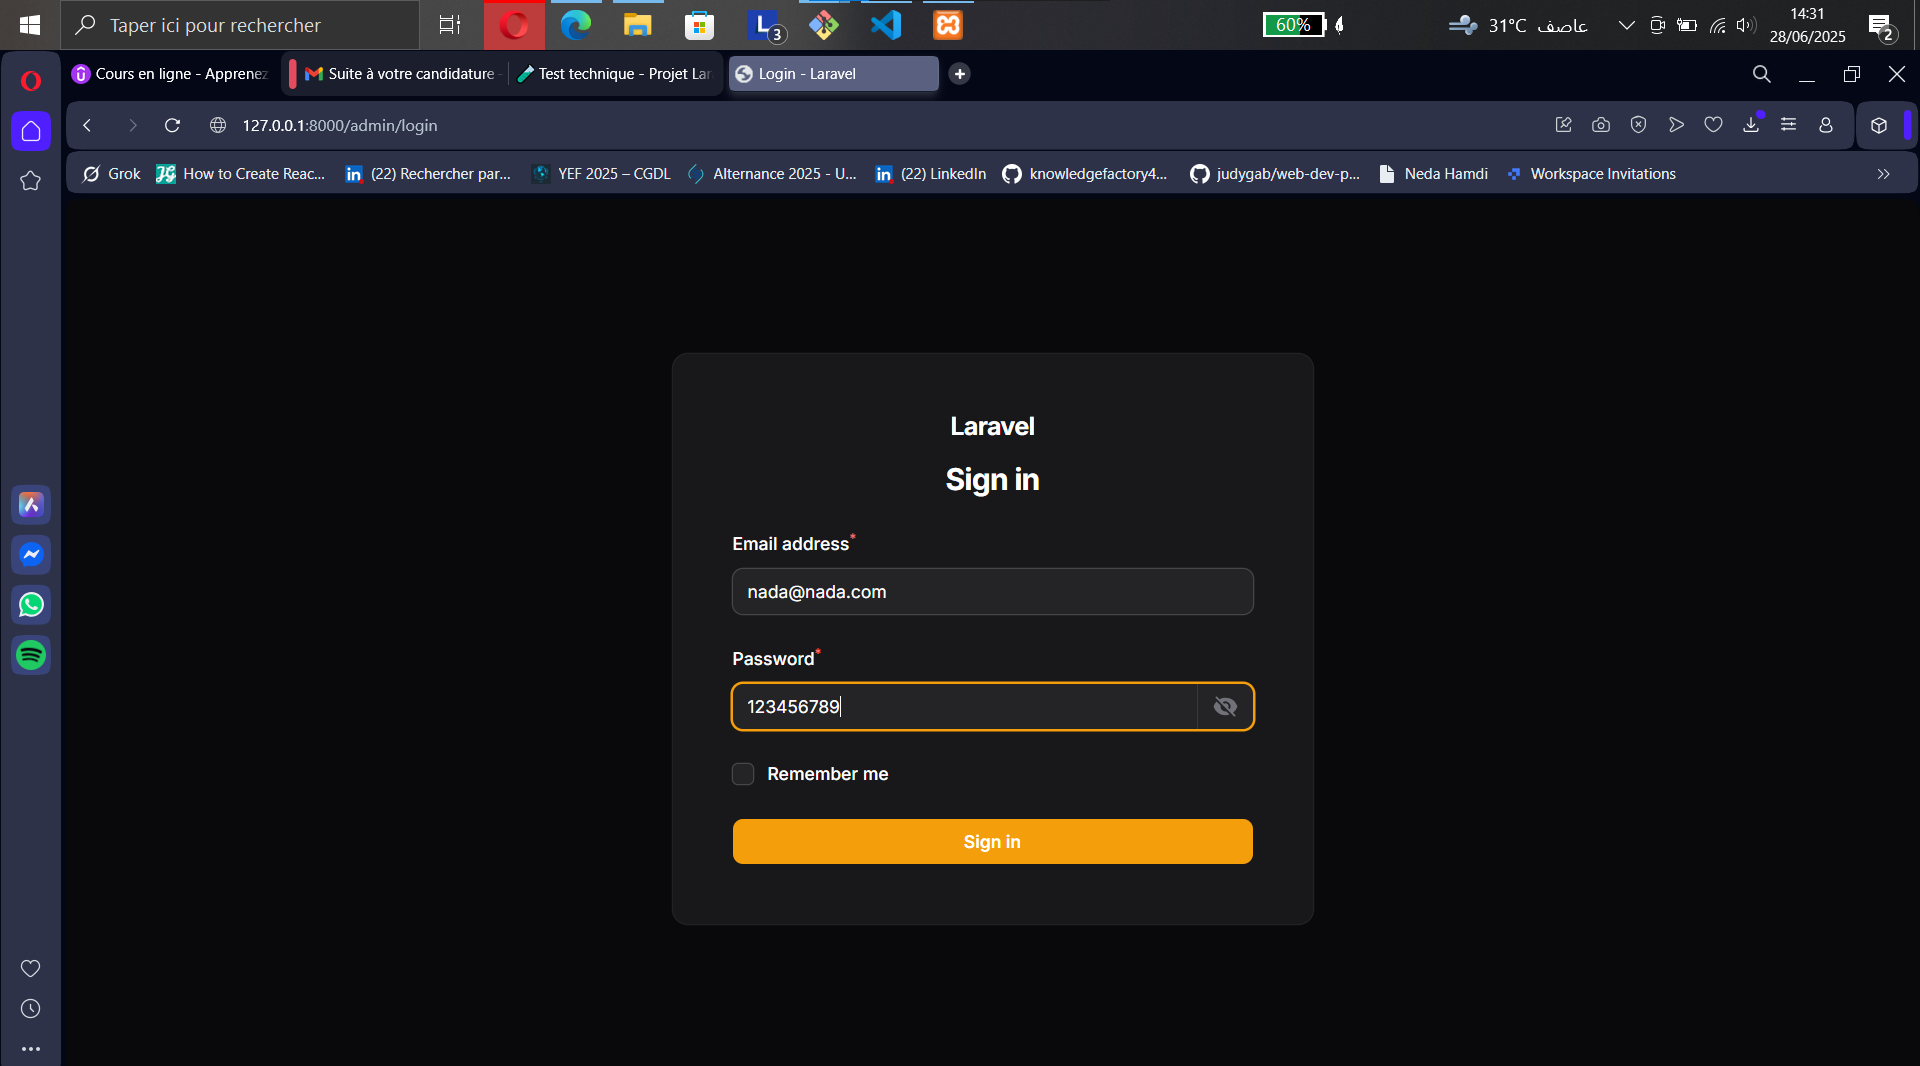
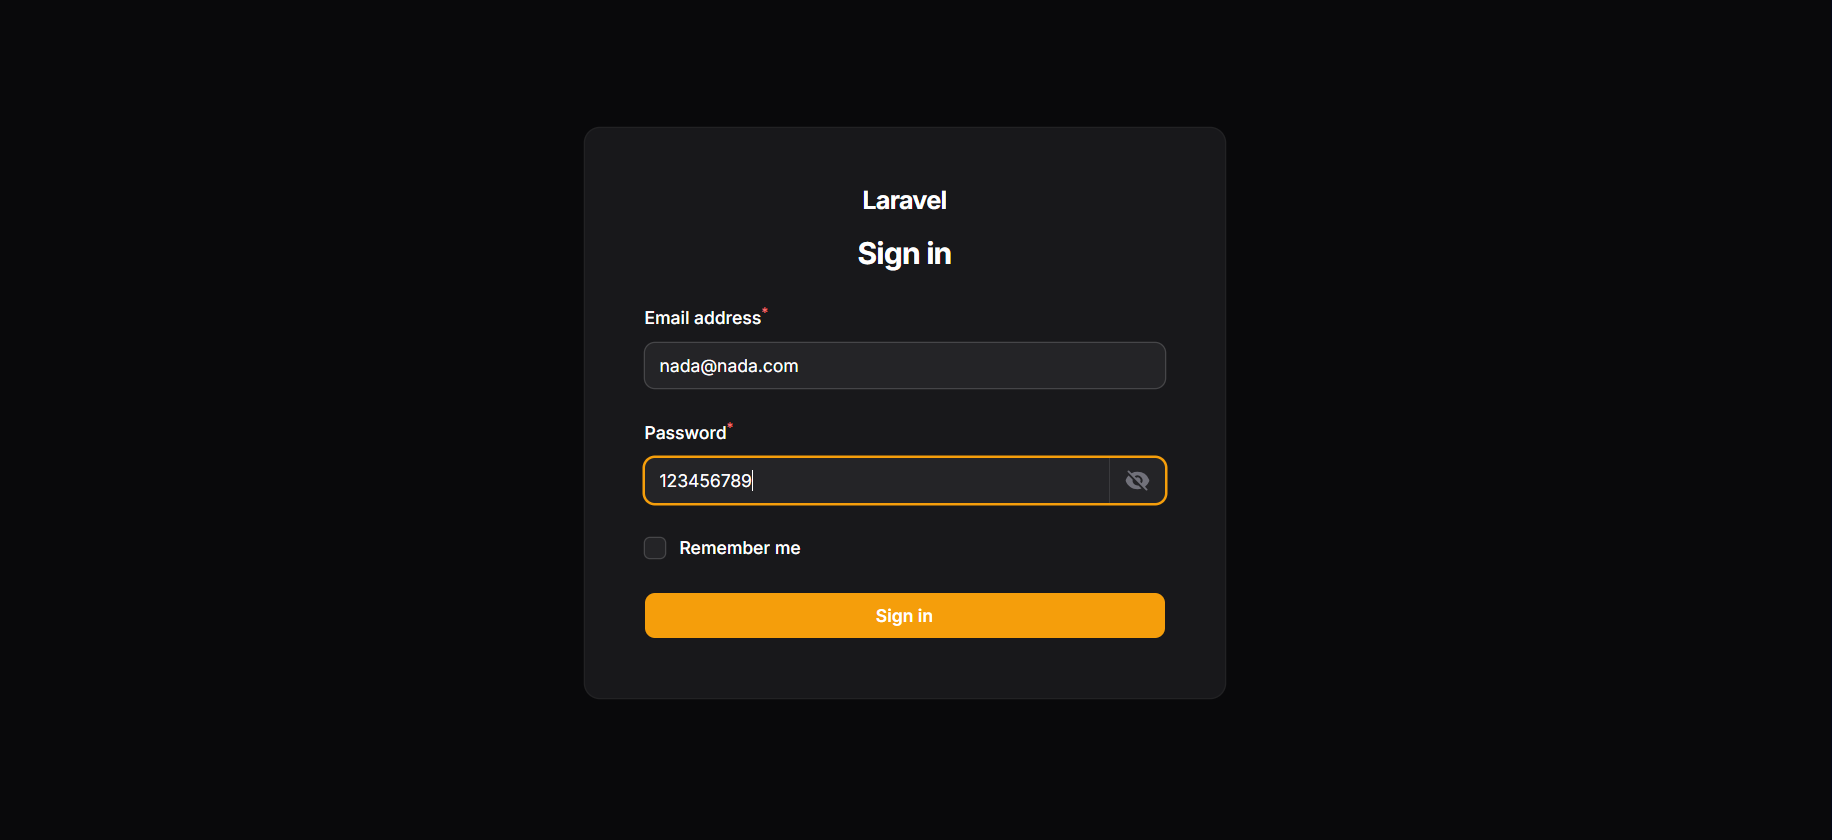
add screenshots

diff --git a/README.md b/README.md
@@ -1,0 +1,9 @@
+<<<<<<< HEAD
+# Application-de-gestion-de-r-servations-immobili-res
+ Une  application de gestion de réservations immobilières en utilisant ces technologies :Laravel, Livewire, Filament et TailwindCSS.
+=======  
+
+!["la page de Réservations dans l'interface d'administration"](images/capture4.png)
+!["le Tableau de Bord principal de l'interface d'administration"](images/capture2.png)
+![la page Modifier la Propriété"](images/capture3.png)
+![l'utilisateur peut voir les propriétés disponibles et gérer les réservations"](images/capture5git add.png)
